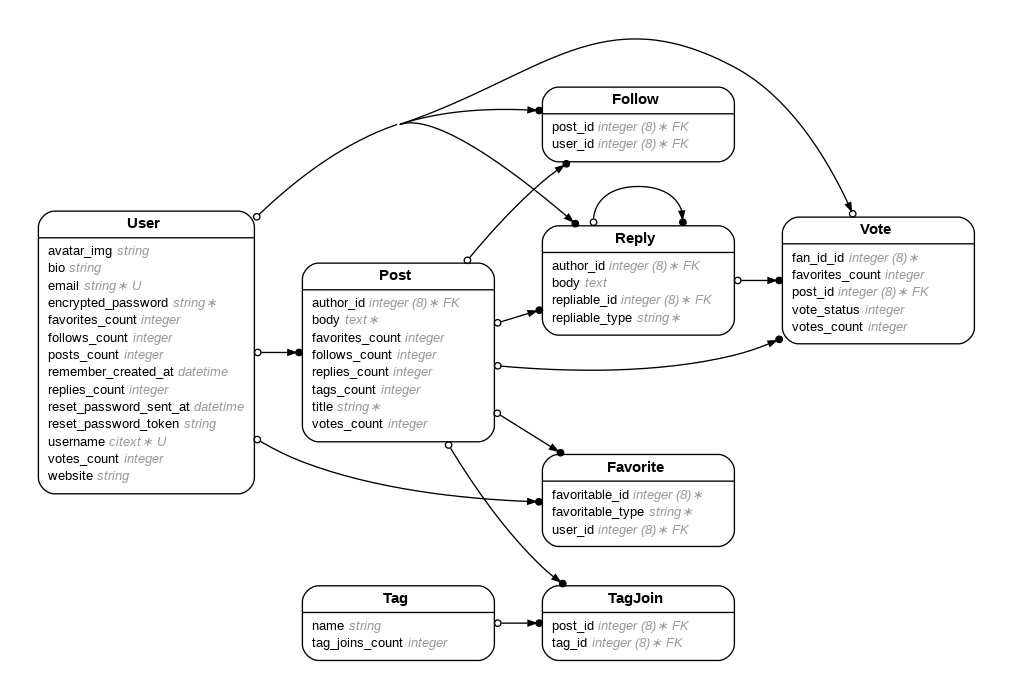
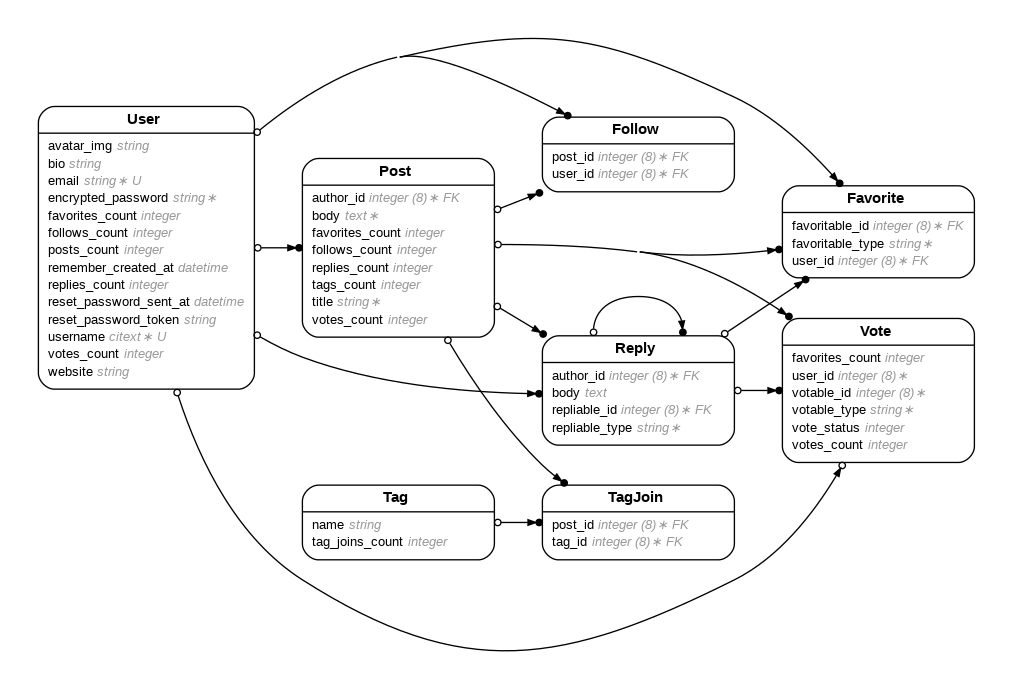
updated votes model with polymorphic and some clean up

diff --git a/db/schema.rb b/db/schema.rb
@@ -10,7 +10,7 @@
 #
 # It's strongly recommended that you check this file into your version control system.
 
-ActiveRecord::Schema.define(version: 2021_05_25_042832) do
+ActiveRecord::Schema.define(version: 2021_05_25_044525) do
 
   # These are extensions that must be enabled in order to support this database
   enable_extension "citext"
@@ -100,15 +100,16 @@ ActiveRecord::Schema.define(version: 2021_05_25_042832) do
   end
 
   create_table "votes", force: :cascade do |t|
-    t.bigint "post_id", null: false
-    t.bigint "fan_id_id", null: false
     t.integer "vote_status"
     t.integer "votes_count", default: 0
     t.integer "favorites_count", default: 0
     t.datetime "created_at", precision: 6, null: false
     t.datetime "updated_at", precision: 6, null: false
-    t.index ["fan_id_id"], name: "index_votes_on_fan_id_id"
-    t.index ["post_id"], name: "index_votes_on_post_id"
+    t.string "votable_type", null: false
+    t.bigint "votable_id", null: false
+    t.bigint "user_id", null: false
+    t.index ["user_id"], name: "index_votes_on_user_id"
+    t.index ["votable_type", "votable_id"], name: "index_votes_on_votable"
   end
 
   add_foreign_key "favorites", "users"
@@ -118,6 +119,5 @@ ActiveRecord::Schema.define(version: 2021_05_25_042832) do
   add_foreign_key "replies", "users", column: "author_id"
   add_foreign_key "tag_joins", "posts"
   add_foreign_key "tag_joins", "tags"
-  add_foreign_key "votes", "posts"
-  add_foreign_key "votes", "users", column: "fan_id_id"
+  add_foreign_key "votes", "users"
 end

diff --git a/app/models/vote.rb b/app/models/vote.rb
@@ -6,22 +6,22 @@
 #
 #  id              :bigint           not null, primary key
 #  favorites_count :integer          default(0)
+#  votable_type    :string           not null
 #  vote_status     :integer
 #  votes_count     :integer          default(0)
 #  created_at      :datetime         not null
 #  updated_at      :datetime         not null
-#  fan_id_id       :bigint           not null
-#  post_id         :bigint           not null
+#  user_id         :bigint           not null
+#  votable_id      :bigint           not null
 #
 # Indexes
 #
-#  index_votes_on_fan_id_id  (fan_id_id)
-#  index_votes_on_post_id    (post_id)
+#  index_votes_on_user_id  (user_id)
+#  index_votes_on_votable  (votable_type,votable_id)
 #
 # Foreign Keys
 #
-#  fk_rails_...  (fan_id_id => users.id)
-#  fk_rails_...  (post_id => posts.id)
+#  fk_rails_...  (user_id => users.id)
 #
 class Vote < ApplicationRecord
   belongs_to :post, counter_cache: true

diff --git a/test/models/vote_test.rb b/test/models/vote_test.rb
@@ -6,22 +6,22 @@
 #
 #  id              :bigint           not null, primary key
 #  favorites_count :integer          default(0)
+#  votable_type    :string           not null
 #  vote_status     :integer
 #  votes_count     :integer          default(0)
 #  created_at      :datetime         not null
 #  updated_at      :datetime         not null
-#  fan_id_id       :bigint           not null
-#  post_id         :bigint           not null
+#  user_id         :bigint           not null
+#  votable_id      :bigint           not null
 #
 # Indexes
 #
-#  index_votes_on_fan_id_id  (fan_id_id)
-#  index_votes_on_post_id    (post_id)
+#  index_votes_on_user_id  (user_id)
+#  index_votes_on_votable  (votable_type,votable_id)
 #
 # Foreign Keys
 #
-#  fk_rails_...  (fan_id_id => users.id)
-#  fk_rails_...  (post_id => posts.id)
+#  fk_rails_...  (user_id => users.id)
 #
 require 'test_helper'
 

diff --git a/app/models/reply.rb b/app/models/reply.rb
@@ -25,6 +25,13 @@ class Reply < ApplicationRecord
   belongs_to :author, class_name: 'User', counter_cache: true
   belongs_to :repliable, polymorphic: true
 
+
   has_many :votes, foreign_key: 'post_id', dependent: :destroy
-  has_many :replies, as: :repliable
+  has_many :replies, as: :repliable, dependent: :destroy
+  has_many :favorites, as: :favoritable, dependent: :destroy
+
+
+  scope :by_replies, -> { order(replies_count: :desc) }
+  scope :by_favorites, -> { order(favorites_count: :desc) }
+  scope :by_votes, -> { order(votes_count: :desc) }
 end

diff --git a/app/models/favorite.rb b/app/models/favorite.rb
@@ -21,9 +21,9 @@
 #  fk_rails_...  (user_id => users.id)
 #
 class Favorite < ApplicationRecord
-  belongs_to :post, counter_cache: true
   belongs_to :user, counter_cache: true
+  belongs_to :favoritable, polymorphic: true
 
-  # To make Replies and Posts favoritable, consider adjusting model to favorite being polymorphic
-  validates :user, uniqueness: { scope: :post }
+
+  validates :user, :uniqueness => { :scope => [:favoritable_type, :favoritable_id] }
 end

diff --git a/app/models/post.rb b/app/models/post.rb
@@ -30,7 +30,7 @@ class Post < ApplicationRecord
   has_many :replies, as: :repliable, dependent: :destroy
   has_many :votes, dependent: :destroy
   has_many :follows, dependent: :destroy
-  has_many :favorites, dependent: :destroy
+  has_many :favorites, as: :favoritable, dependent: :destroy
   has_many :tags, class_name: 'TagJoin', dependent: :destroy
 
   validates :title, presence: true

diff --git a/db/migrate/20210525044525_add_columns_votes.rb b/db/migrate/20210525044525_add_columns_votes.rb
@@ -1,0 +1,6 @@
+class AddColumnsVotes < ActiveRecord::Migration[6.1]
+  def change
+    add_reference :votes, :votable, polymorphic: true, null: false, index: true
+    add_reference :votes, :user, foreign_key: true, null: false, index: true
+  end
+end

diff --git a/db/migrate/20210525044148_remove_post_id_from_votes.rb b/db/migrate/20210525044148_remove_post_id_from_votes.rb
@@ -1,0 +1,6 @@
+class RemovePostIdFromVotes < ActiveRecord::Migration[6.1]
+  def change
+    remove_column :votes, :post_id
+    remove_column :votes, :fan_id_id
+  end
+end
